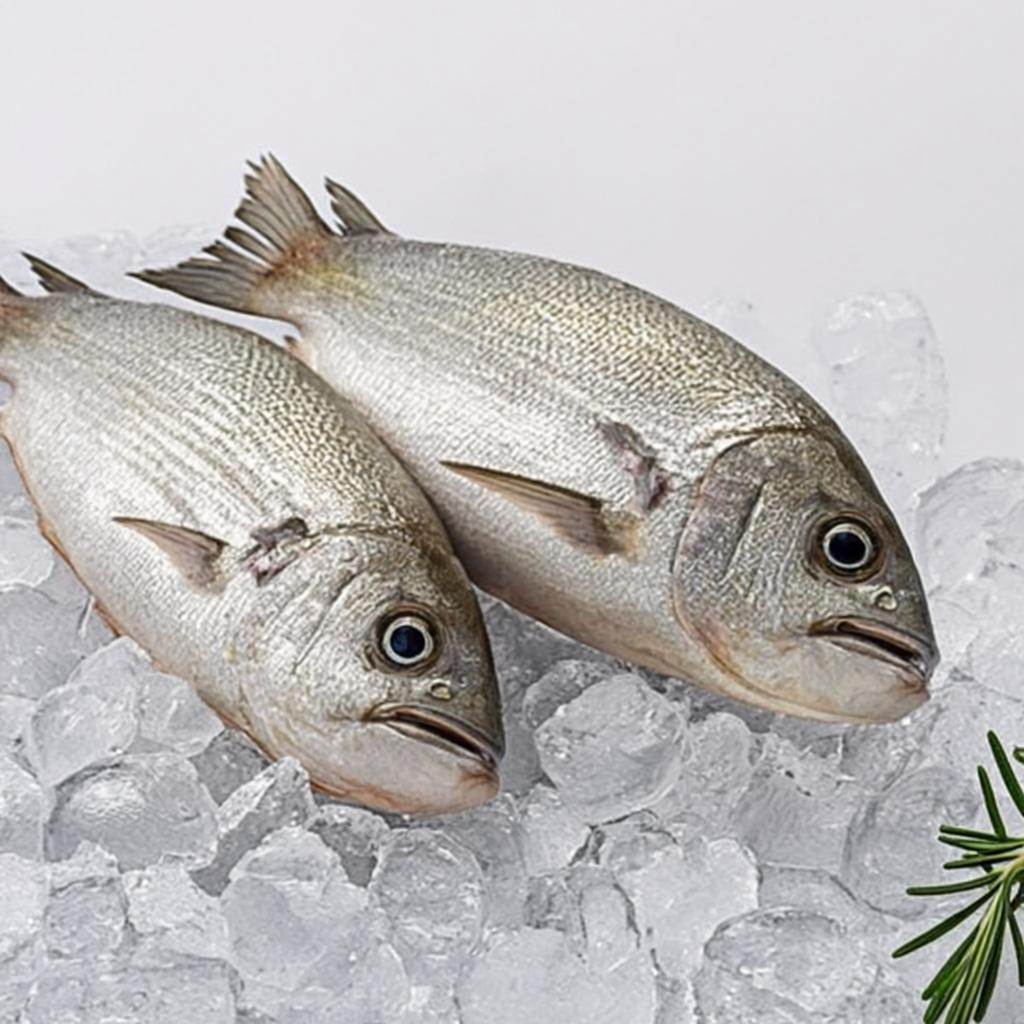
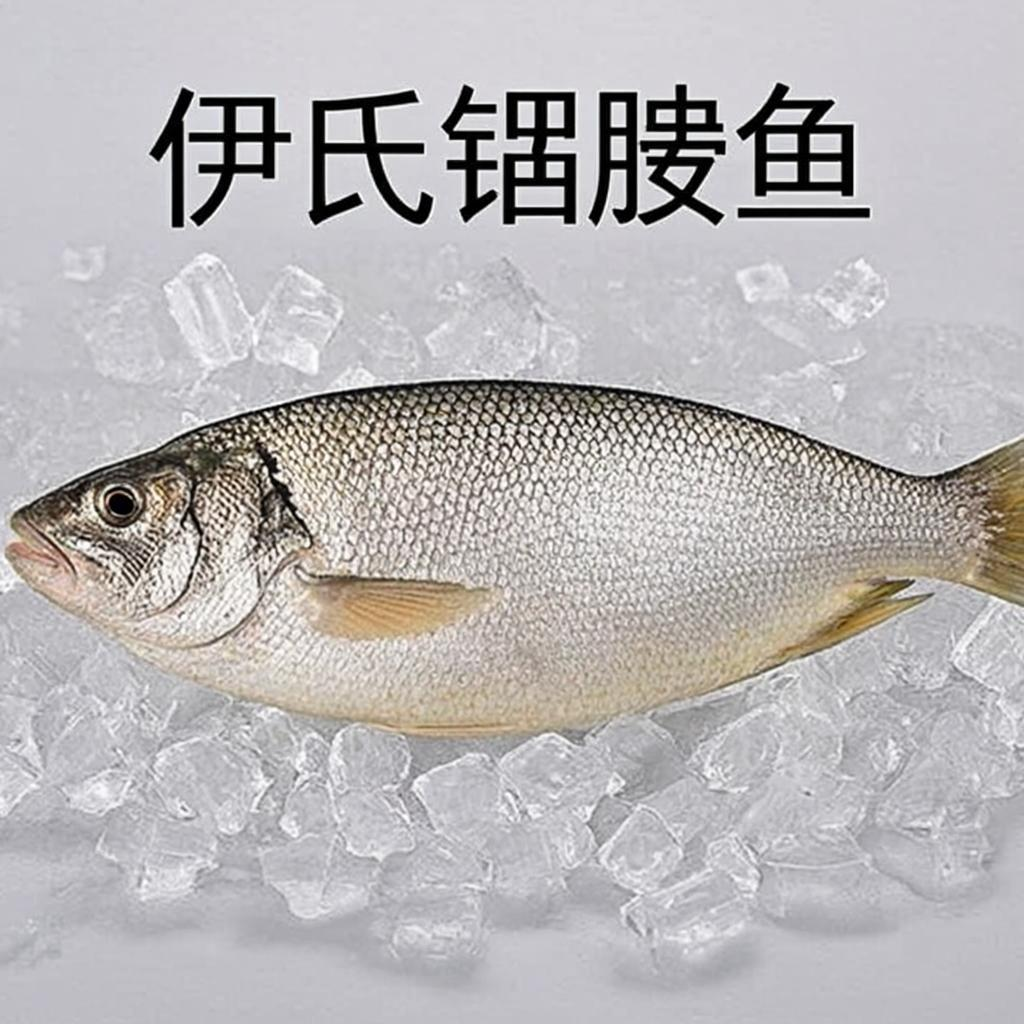
a6082a49-b085-4090-bd4a-82ed29d3b397

diff --git a/src/app/page.tsx b/src/app/page.tsx
@@ -193,7 +193,9 @@ export default function Home() {
   const [deliveryFee, setDeliveryFee] = useState(() => {
     if (typeof window === "undefined") return 0;
     const saved = localStorage.getItem("selected_district");
-    return saved === "যশোর সদর" ? 0 : saved ? 70 : 0;
+    if (!saved) return 0;
+    if (saved === "যশোর সদর") return 0;
+    return 160; // যশোর সদর ছাড়া অন্য সকল জেলা ১৬০ টাকা
   });
 
   // Sticky bar
@@ -221,10 +223,15 @@ export default function Home() {
   });
 
   /* ─── Delivery Fee ─── */
+  const getDeliveryFee = (district: string): number => {
+    if (!district) return 0;
+    if (district === "যশোর সদর") return 0; // যশোর শহরের মধ্যে ফ্রি
+    return 160; // অন্য সকল জেলায় ১৬০ টাকা (জরুরি পণ্যের কোয়ান্টিটির উপর নির্ভর)
+  };
+
   const handleDistrictChange = (value: string) => {
     setSelectedDistrict(value);
-    const fee = value === "যশোর সদর" ? 0 : 70;
-    setDeliveryFee(fee);
+    setDeliveryFee(getDeliveryFee(value));
     localStorage.setItem("selected_district", value);
   };
 
@@ -513,8 +520,8 @@ export default function Home() {
               {!selectedDistrict
                 ? "নির্বাচন করুন"
                 : deliveryFee === 0
-                  ? "ফ্রি (যশোর)"
-                  : `${formatPrice(deliveryFee)}`}
+                  ? "ফ্রি (যশোর শহর)"
+                  : `${formatPrice(deliveryFee)} (জরুরি পণ্যের কোয়ান্টিটির উপর নির্ভর)`}
             </p>
           </div>
         </AnimatedSection>
@@ -585,7 +592,14 @@ export default function Home() {
                     {/* Badges */}
                     <div className="flex flex-wrap gap-1.5 mb-2">
                       {product.offerBadge && (
-                        <Badge className="bg-[#ff8c1a] text-white rounded-full text-[10px] font-bold px-2.5 py-0.5">
+                        <Badge
+                          className="bg-[#ff8c1a] text-white rounded-full text-[10px] font-bold px-2.5 py-0.5 cursor-pointer hover:bg-[#e67e22] transition-colors"
+                          onClick={() => {
+                            if (product.offerLink) {
+                              window.open(product.offerLink, "_blank", "noopener,noreferrer");
+                            }
+                          }}
+                        >
                           {product.offerBadge}
                         </Badge>
                       )}
@@ -678,7 +692,7 @@ export default function Home() {
               <div className="grid grid-cols-2 md:grid-cols-4 gap-6">
                 {[
                   { icon: <ShieldCheck className="w-8 h-8 text-primary" />, title: "১০০% খাঁটি পণ্য", desc: "সতেজ মাছ-মাংস-সবজি ও অরিজিনাল বাসমতী" },
-                  { icon: <Truck className="w-8 h-8 text-primary" />, title: "সারা দেশ ডেলিভারি", desc: "যশোরে ফ্রি, অন্যান্য জেলায় ৳৭০" },
+                  { icon: <Truck className="w-8 h-8 text-primary" />, title: "সারা দেশ ডেলিভারি", desc: "যশোর শহরে ফ্রি, অন্যান্য জেলায় ৳১৬০" },
                   { icon: <CreditCard className="w-8 h-8 text-primary" />, title: "কিস্তি সুবিধা", desc: "টিভি, ফ্রিজ, AC, ফোন কিস্তিতে কিনুন" },
                   { icon: <Lightbulb className="w-8 h-8 text-primary" />, title: "ডিজিটাল সাপোর্ট", desc: "ওয়েব, এডস, গ্রাফিক্স, সফটওয়্যার" },
                 ].map((item, i) => (
@@ -1057,7 +1071,7 @@ export default function Home() {
             পণ্য হাতে পাওয়ার পর টাকা প্রদান করুন। ১০০% নিরাপদ ও বিশ্বস্ত।
           </p>
           <p className="text-xs text-muted-foreground">
-            যশোরে ফ্রি ডেলিভারি, অন্যান্য জেলায় মাত্র ৳৭০।
+            যশোর শহরে ফ্রি ডেলিভারি, অন্যান্য জেলায় ৳১৬০ (জরুরি পণ্যের কোয়ান্টিটির উপর নির্ভর)।
           </p>
           <Button onClick={() => setCodModalOpen(false)} className="bg-primary hover:bg-primary/90 text-white rounded-full font-bold">
             বুঝলাম

diff --git a/src/lib/constants.ts b/src/lib/constants.ts
@@ -11,6 +11,7 @@ export interface Product {
   priceLabel?: string;
   image: string;
   offerBadge?: string;
+  offerLink?: string;
   stockBadge?: string;
   showCod?: boolean;
   showEmi?: boolean;
@@ -27,7 +28,7 @@ export const PRODUCTS: Product[] = [
     oldPrice: 1750,
     image: "/images/rice-jar.png",
     offerBadge: "BEST OFFER",
-    stockBadge: "মাত্র ১৫টি বাকি!",
+    offerLink: "https://shobjanta-supplier.vercel.app/",
     showCod: true,
     category: "grocery",
   },
@@ -217,7 +218,7 @@ export const FAQ_ITEMS: FAQItem[] = [
   },
   {
     question: "ডেলিভারি কতদিন লাগে?",
-    answer: "যশোর: ২৪ ঘণ্টা, ঢাকা/চট্টগ্রাম: ২-৩ দিন, অন্যান্য জেলা: ৩-৫ দিন। মাছ/মাংস/সবজি: যশোরে একই দিনে। কুরিয়ার পার্টনার: পাথাও, সন্দরবন, রেডএক্স।",
+    answer: "যশোর শহরের মধ্যে: ২৪ ঘণ্টা (ফ্রি ডেলিভারি), অন্যান্য জেলা: ৩-৫ দিন (৳১৬০, জরুরি পণ্যের কোয়ান্টিটির উপর নির্ভর)। মাছ/মাংস/সবজি: যশোরে একই দিনে। কুরিয়ার পার্টনার: পাথাও, সন্দরবন, রেডএক্স।",
   },
   {
     question: "মাছ, মাংস ও সবজি সতেজ পাবো?",